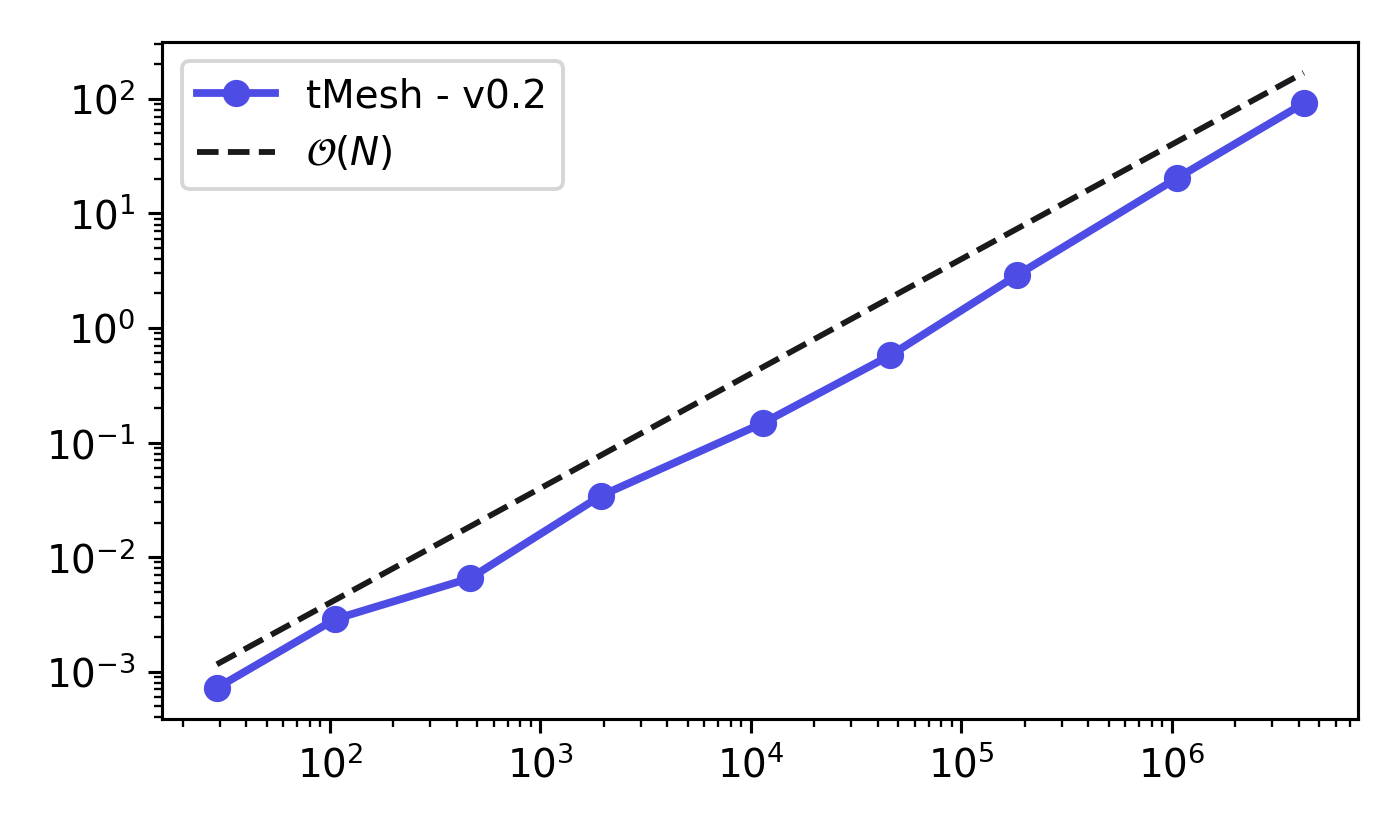
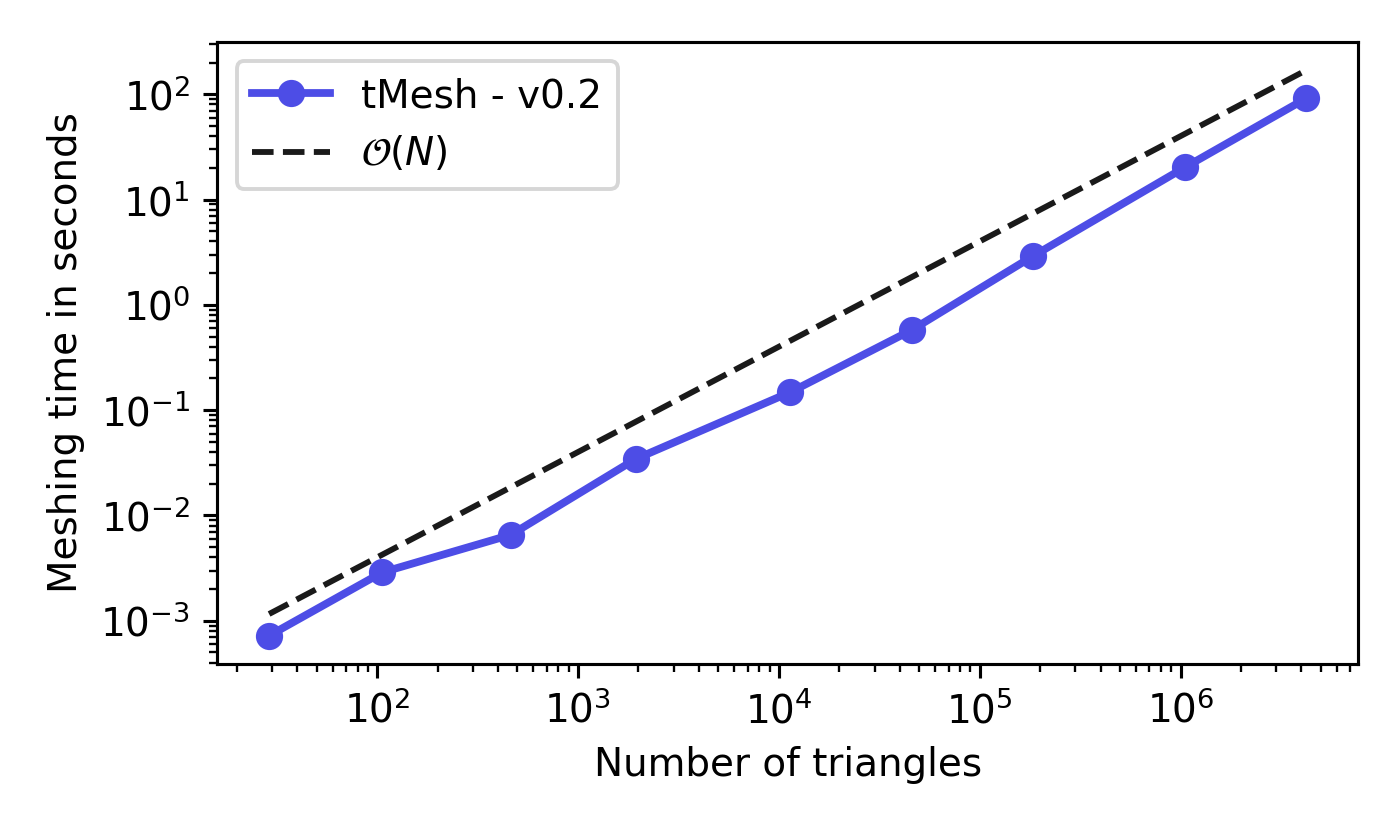
Update performance plot

Changed region(s): [[0.0307, 0.031, 0.9829, 0.9286], [0.6143, 0.0929, 0.9521, 0.4024], [0.3993, 0.2167, 0.43, 0.2476]]

diff --git a/share/python/performance.py b/share/python/performance.py
@@ -35,6 +35,9 @@ def main():
     ax.set_yscale('log')
     ax.set_xscale('log')
 
+    ax.set_xlabel('Number of triangles')
+    ax.set_ylabel('Meshing time in seconds')
+
     #ax.grid(True)
 
     fig_path = os.path.join( export_path, 'performance')
